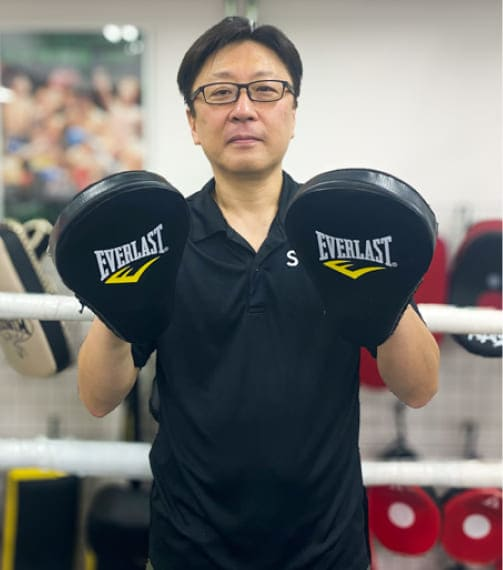
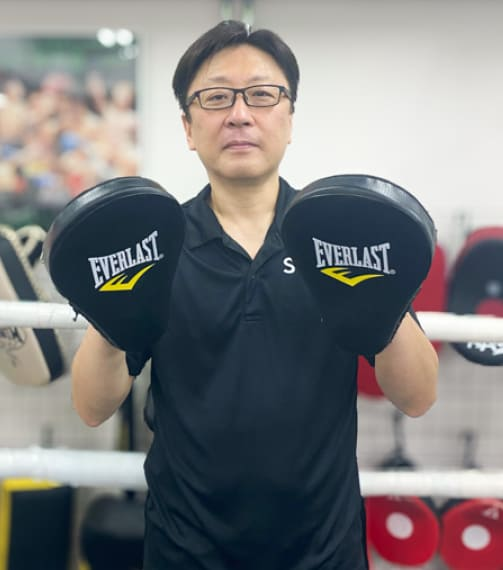
各種ページのデザイン再修正・追加

diff --git a/assets/css/style.css b/assets/css/style.css
@@ -2083,7 +2083,7 @@ footer {
   display: inline-block;
   font-size: 1.1rem;
   padding: 4px 14px;
-  background-color: rgba(245, 244, 235, 0.8);
+  background-color: rgba(243, 243, 243, 0.8);
   border-radius: 5px;
 }
 @media (width >= 768px) {
@@ -2098,7 +2098,7 @@ footer {
 }
 
 .advisor {
-  background-color: #f4f4f4;
+  background-color: #f9f8f1;
   padding-bottom: 60px;
 }
 @media (width >= 768px) {
@@ -2201,7 +2201,7 @@ footer {
   display: inline-block;
   font-size: 1.1rem;
   padding: 4px 14px;
-  background-color: rgba(255, 255, 255, 0.8);
+  background-color: #fff;
   border-radius: 5px;
 }
 @media (width >= 768px) {
@@ -3132,7 +3132,7 @@ main {
 }
 @media (width >= 1280px) {
   .access__inner.flex .access__list {
-    padding-top: 24px;
+    padding-top: 8px;
   }
 }
 .access__inner.flex .access__list .access__item0 {
@@ -3187,5 +3187,6 @@ main {
     height: 500px;
     width: 48vw;
     max-width: 500px;
+    margin-top: 24px;
   }
 }

diff --git a/assets/scss/_trainer.scss b/assets/scss/_trainer.scss
@@ -81,7 +81,7 @@
         display: inline-block;
         font-size: 1.1rem;
         padding: 4px 14px;
-        background-color: rgba(245, 244, 235, 0.8);
+        background-color: rgba(243, 243, 243, 0.8);
         border-radius: 5px;
         @include min(sm) {
           font-size: 1rem;
@@ -96,7 +96,7 @@
 
 //advisor{
 .advisor {
-  background-color: #f4f4f4;
+  background-color: #f9f8f1;
   padding-bottom: 60px;
   @include min(sm) {
     padding-bottom: 80px;
@@ -185,7 +185,7 @@
         display: inline-block;
         font-size: 1.1rem;
         padding: 4px 14px;
-        background-color: rgba(255, 255, 255, 0.8);
+        background-color: #fff;
         border-radius: 5px;
         @include min(sm) {
           font-size: 1rem;

diff --git a/index.html b/index.html
@@ -1414,8 +1414,12 @@
                 </dd>
               </div>
               <div class="access__item">
-                <dt class="access__item-dt">電話番号</dt>
-                <dd class="access__item-dd">03-4400-8504</dd>
+                <dt class="access__item-dt">連絡先</dt>
+
+                <dd class="access__item-dd">Tel : 03-4400-8504</dd>
+                <dd class="access__item-dd">
+                  Email : <span>info@seiwaco.jp</span>
+                </dd>
               </div>
               <div class="access__item">
                 <dt class="access__item-dt">営業時間</dt>

diff --git a/about/index.html b/about/index.html
@@ -572,8 +572,12 @@
                 </dd>
               </div>
               <div class="access__item">
-                <dt class="access__item-dt">電話番号</dt>
-                <dd class="access__item-dd">03-4400-8504</dd>
+                <dt class="access__item-dt">連絡先</dt>
+
+                <dd class="access__item-dd">Tel : 03-4400-8504</dd>
+                <dd class="access__item-dd">
+                  Email : <span>info@seiwaco.jp</span>
+                </dd>
               </div>
               <div class="access__item">
                 <dt class="access__item-dt">営業時間</dt>

diff --git a/assets/scss/style.scss b/assets/scss/style.scss
@@ -771,7 +771,7 @@ main {
       width: 40vw;
     }
     @include min(la) {
-      padding-top: 24px;
+      padding-top: 8px;
     }
     .access__item0 {
       position: relative;
@@ -805,6 +805,7 @@ main {
         font-weight: 600;
         margin-bottom: 6px;
       }
+
       .access__item-dd {
         font-size: 1.4rem;
         & .access__item-dd-small {
@@ -821,6 +822,7 @@ main {
         height: 500px;
         width: 48vw;
         max-width: 500px;
+        margin-top: 24px;
       }
     }
   }

diff --git a/trainer/index.html b/trainer/index.html
@@ -410,10 +410,7 @@
             </li>
             <li class="trainer__item fadeup">
               <div class="trainer__item-pic">
-                <img
-                  src="../assets/images/trainer/shina02.jpg"
-                  alt="椎名孝尚"
-                />
+                <img src="../assets/images/trainer/shina.jpg" alt="椎名孝尚" />
               </div>
               <h3 class="trainer__item-heading">
                 椎名孝尚
